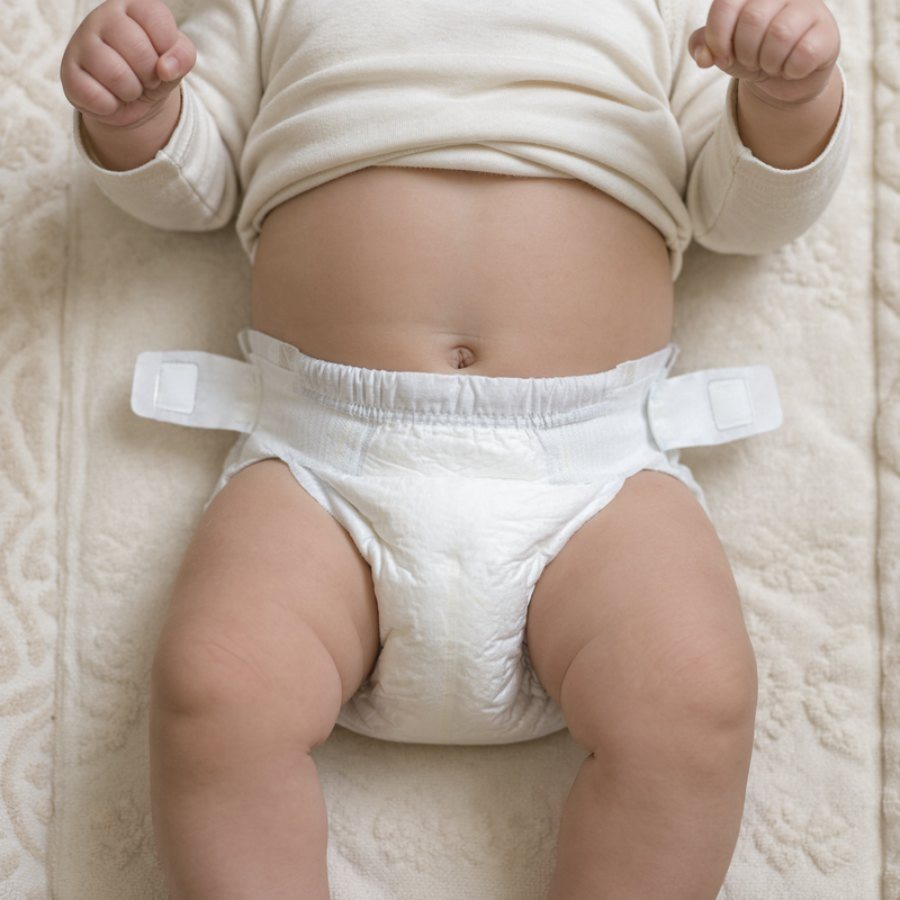
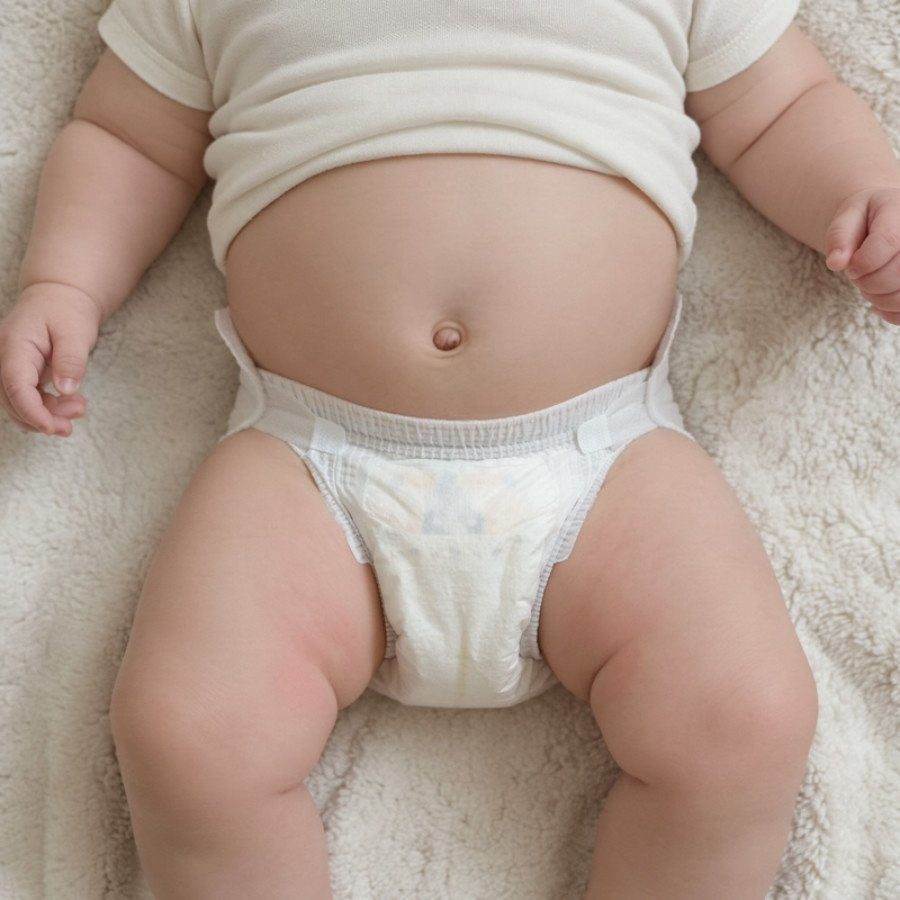
Preview: Everyday care content pass (steps are actions), first step leads the card, wriggler photo tiles, new too-small diaper photo
Claude-Session: https://claude.ai/code/session_01SSLJSJHqsTStWkqtBqtxJf

diff --git a/preview-everyday-care/js/care-v2.js b/preview-everyday-care/js/care-v2.js
@@ -482,13 +482,13 @@ const sunAges = () => typeof hubAgeTiles === 'function' ? hubAgeTiles({ title: '
       W: 'The stump dries up and falls off on its own, usually in 1–3 weeks.', tilesT: 'Keep it dry', tiles: () => [['diaper', 'Fold the diaper down', 'So the stump stays in the air'], ['drop', 'Clean with plain water', 'Only if dirty, then pat dry'], ['heart', 'Let it fall off', 'Even if it’s hanging on']], D: '',
       extra: () => hubEmbed('qFPA-4A_8wY', 'Caring for the umbilical cord', 'Nemours KidsHealth') + lookLink('cord', 'Smell, crust or a little blood?', 'What’s normal, and when to call') },
     sponge: { k: 'bath', title: 'Sponge baths for now', vis: () => hubEmbed('uYQ_KNlcQwE', 'How to give your newborn a sponge bath', 'Nemours KidsHealth'),
-      W: () => '2–3 sponge baths a week until the cord falls off' + (anatomy() !== 'girl' ? ' (and a circumcision heals)' : '') + ', so the cord stays dry.', tilesT: 'Step by step', tilesN: true, tiles: () => [['home', 'Warm the room', 'Not right after a feed'], ['drop', 'Face first', 'Plain water'], ['towel', 'Then the body', 'One part at a time, the rest wrapped'], ['diaper', 'Diaper area last', 'Pat dry, into every crease']], D: '',
+      W: () => '2–3 sponge baths a week until the cord falls off' + (anatomy() !== 'girl' ? ' (and a circumcision heals)' : '') + ', so the cord stays dry.', tilesT: 'Step by step', tilesN: true, tiles: () => [['home', 'Warm the room', 'And lay out a towel and washcloth'], ['drop', 'Wipe {p} face', 'With a damp washcloth, no soap'], ['towel', 'Wash one part at a time', 'Keep the rest wrapped'], ['diaper', 'Wash the diaper area last', 'Then pat dry, into every crease']], D: '',
       Y: 'More baths can dry {p} skin. In between, wipe {p} face, neck and diaper area.', Yl: 'Why only 2–3 a week' },
     newskin: { k: 'skin', title: 'Newborn skin', vis: () => looks('What it can look like', ['Peeling or flaky skin in the first 1–2 weeks', 'Tiny white bumps on the nose and chin', 'Red blotches with a white or yellow center, gone in 1–2 weeks', 'Pink marks on the eyelids or neck, and blue-gray patches on the back or bottom: birthmarks, not bruises', 'From about 2 weeks: baby acne on the cheeks, and flaky cradle cap on the scalp']),
       W: 'Newborn skin does a lot of surprising things in the first weeks. Almost all of it is normal.', D: 'Nothing to treat. Plain water, and no lotions or creams on bumps.',
       extra: () => urgent('Clusters of tiny blisters in the first 2 weeks. Call your pediatrician right away.') },
     nailsnose: { k: 'nails', title: 'Trim nails once a week',
-      W: 'They grow fast and are sharp enough to scratch {p} face.', tilesT: 'Step by step', tilesN: true, tiles: () => [['moon', 'While {s} {sleep|sleeps}', 'The easiest time'], ['hand', 'Press the pad back', 'So the clippers only catch nail'], ['nail', 'Clip or file', 'To a smooth, rounded edge']], D: '',
+      W: 'They grow fast and are sharp enough to scratch {p} face.', tilesT: 'Step by step', tilesN: true, tiles: () => [['hand', 'Hold {p} hand steady', 'Easiest while {s’s} asleep'], ['hand', 'Press the fingertip pad back', 'So you only catch nail'], ['nail', 'Clip or file along the curve', 'To a smooth edge']], D: '',
       K: 'A small nick happens to everyone. Press gently with a clean cloth.', Kl: 'If you nick the skin', Y: 'Wipe the outside with a washcloth. No cotton swabs inside.', Yl: 'Ears',
       extra: () => false ? H().tip('Sticky eyes', 'Wipe from the inside corner out, a fresh damp cotton ball for each eye. Most blocked tear ducts open on their own by the first birthday.') + callTip('A red or swollen eyelid, a red lump at the inner corner of the eye, or yellow-green discharge with redness.') : '' },
     fewer: { i: 'diaper', k: 'diapers', title: 'Fewer poops can be normal', W: () => fewerLine(), D: 'Change {o} when wet or dirty, and let the skin air out before a fresh diaper.',
@@ -981,7 +981,7 @@ const sunAges = () => typeof hubAgeTiles === 'function' ? hubAgeTiles({ title: '
       calls: { ped: 'a diaper rash lasts more than 2–3 days, or has blisters, pus or bright red folds.' } },
     'p:tub': { type: 'howto', k: 'bath', title: 'Tub baths can start',
       why: () => 'Once the cord' + (anatomy() !== 'girl' ? ' and any circumcision have' : ' has') + ' healed, about 3 baths a week is plenty.',
-      steps: [['drop', 'Get the water ready', 'About 2 inches, about 100°F'], ['face', 'Face first', 'Plain water, without soap'], ['hand', 'Then the body', 'A hand behind the head'], ['bath', 'Hair last', 'Shampoo 2 or 3 times a week'], ['towel', 'Straight into a towel', 'Pat dry, into every crease']],
+      steps: [['drop', 'Fill 2 inches of warm water', 'About 100°F. Test it with your wrist'], ['face', 'Wipe {p} face', 'Plain water, no soap'], ['hand', 'Wash {p} body', 'A hand behind {p} head'], ['bath', 'Wash {p} hair last', 'A mild shampoo, 2 or 3 baths a week'], ['towel', 'Lift {o} into a towel', 'Pat dry, into the creases']],
       safe: [['hand', 'A hand on {o} the whole bath', 'To step away, wrap {o} in a towel and take {o} with you.'], ['thermo', 'Water heater at 120°F or lower', 'So scalds are much less likely.']],
       video: ['VsUla1M7eHQ', 'Giving a tub bath', 'Nemours KidsHealth'] },
     'rash:acne': { type: 'check', k: 'skin', eyebrow: 'Is this normal?', title: 'Baby acne', verdict: () => RASH_VERDICT.acne, where: 'acne',
@@ -993,32 +993,32 @@ const sunAges = () => typeof hubAgeTiles === 'function' ? hubAgeTiles({ title: '
   /* ----- How-to pages ----- */
   TPL['p:sponge'] = { type: 'howto', k: 'bath', title: 'Sponge baths for now',
     why: 'Two or three a week until the cord falls off, so it stays dry.',
-    steps: [['home', 'Warm the room', 'Not right after a feed'], ['smile', 'Face first', 'Plain water'], ['towel', 'Then the body', 'One part at a time, the rest wrapped'], ['diaper', 'Diaper area last', 'Pat dry, into every crease']],
+    steps: [['home', 'Warm the room', 'And lay out a towel, washcloth and clean diaper'], ['smile', 'Wipe {p} face', 'Damp cloth, no soap'], ['towel', 'Wash one part at a time', 'The rest stays wrapped'], ['diaper', 'Wash the diaper area last', 'Then pat dry']],
     stepsNotes: [['', 'More baths can dry {p} skin', 'In between, wipe {p} face, neck and diaper area'], ['', 'Ears too', 'Just the outside. No cotton swabs inside']],
     safe: [['hand', 'A hand on {o} the whole time', 'Never step away from {o} on a raised surface.']],
     video: ['uYQ_KNlcQwE', 'How to give your newborn a sponge bath', 'Nemours KidsHealth'] };
   TPL['t:bath:0'] = TPL['p:sponge'];
   TPL['t:bath:2'] = { type: 'howto', k: 'bath', title: 'A warm bath can be part of bedtime',
     why: 'A warm bath helps many babies wind down, and the same order every night helps most.',
-    steps: [['bath', 'Bath', 'About 100°F: test with your wrist'], ['bottle', 'Feed', 'Calm and dim'], ['book', 'Book', 'The same one is fine'], ['moon', 'Bed', 'On {p} back, in {p} own sleep space']],
-    stepsNotes: [['', 'About 3 baths a week', 'More can dry {p} skin. Use a mild shampoo on {p} hair in 2 or 3 of them'], ['', 'The big tub comes once {s} {sit|sits} steadily', 'Often around 6–8 months. Until then, the baby tub']],
+    steps: [['bath', 'Give {o} a warm bath', 'About 100°F. Test it with your wrist'], ['bottle', 'Feed {o}', 'With the lights low'], ['book', 'Read a short book', 'The same one every night is fine'], ['moon', 'Lay {o} down on {p} back', 'In {p} own sleep space']],
+    stepsNotes: [['', 'About 3 baths a week', 'More can dry {p} skin. Use a mild shampoo on {p} hair in 2 or 3 of them']],
     safe: [['hand', 'A hand on {o} the whole bath', 'Babies can slip under in seconds. To step away, take {o} with you.']] };
   TPL['t:bath:3'] = { type: 'howto', k: 'bath', title: 'Move to the big tub',
     why: 'Once {s} {sit|sits} steadily on {p} own, the big tub is fine.',
-    steps: [['mat', 'A non-slip bath mat', 'In the tub'], ['drop', 'Waist-deep at most', 'When {s} {sit|sits}'], ['tub', 'Pulls up?', 'Gently sit {o} back down']],
+    steps: [['mat', 'Lay a non-slip mat in the tub', 'Before you fill it'], ['drop', 'Fill it no higher than {p} waist', 'When {s} {sit|sits}'], ['tub', 'Sit {o} back down if {s} {stand|stands}', 'Gently, every time']],
     safe: [['hand', 'A hand on {o} the whole bath', 'Babies can slip under in seconds. To step away, take {o} with you.'], ['tub', 'Skip bath seats', 'They can tip over, and babies can slip out.']] };
   const diaperRash = [['diaper', 'Diaper rash? Thick zinc cream', 'At every change, and let the skin air out.'], ['diaper', 'Call if a rash isn’t better in 2–3 days', 'Or if it has blisters, pus or bright red folds.']];
   TPL['h:diapers:0'] = { type: 'howto', k: 'diapers', title: 'Change a diaper',
     why: 'About 8–12 a day in the first weeks. Open the fresh diaper before you start.',
-    steps: [['hand', 'A hand on {o}', 'On a flat surface'], ['drop', 'Wipe front to back', 'Water or unscented wipes'], ['leaf', 'Let it air-dry', 'Then slide a fresh one under {o}'], ['cord', 'Fasten it below the cord stump', 'Snug, but two fingers fit at the waist']],
+    steps: [['hand', 'Keep a hand on {o}', 'On a flat surface, the whole change'], ['drop', 'Wipe front to back', 'Water or unscented wipes'], ['leaf', 'Let the skin air-dry', 'Then slide in a fresh one'], ['cord', 'Fasten it below the stump', 'Two fingers’ room at the waist']],
     tipsTitle: 'Good to know', tips: diaperRash };
   TPL['h:diapers:1'] = { type: 'howto', k: 'diapers', title: 'Change a diaper',
     why: 'Change {o} when wet or dirty, about 6 or more a day.',
-    steps: [['hand', 'A hand on {o}', 'On a flat surface'], ['drop', 'Wipe front to back', 'Water or unscented wipes'], ['leaf', 'Let it air-dry', 'Then slide a fresh one under {o}'], ['diaper', 'Fasten it snug', 'Two fingers at the waist']],
+    steps: [['hand', 'Keep a hand on {o}', 'On a flat surface, the whole change'], ['drop', 'Wipe front to back', 'Water or unscented wipes'], ['leaf', 'Let the skin air-dry', 'Then slide in a fresh one'], ['diaper', 'Fasten it snug', 'Two fingers’ room at the waist']],
     tipsTitle: 'Good to know', tips: [['diaper', 'Leaks mean it’s time to size up', 'So do red marks, or tabs that don’t reach the middle.'], ...diaperRash] };
   TPL['h:diapers:2'] = { type: 'howto', k: 'diapers', title: 'Change a wriggler',
     why: 'Rolling can start any day, so set up before {s} {go|goes} down.',
-    steps: [['diaper', 'Set up first', 'Wipes and diaper in reach'], ['hand', 'A hand on {o}', 'Never step away'], ['toy', 'Something to hold', 'Or sing the same song each time'], ['mat', 'Too wriggly?', 'A mat on the floor']],
+    steps: [['diaper', 'Set out wipes and a diaper', 'Before you lay {o} down'], ['hand', 'Keep a hand on {o}', 'Never step away, even for a second'], ['toy', 'Hand {o} a toy to hold', 'Or sing the same song'], ['mat', 'Use a mat on the floor', 'When {s’s} too wriggly']],
     tipsTitle: 'Good to know', tips: diaperRash };
   const skinCare = { type: 'expect', k: 'skin', title: '{P} skin needs less care, not more',
     why: 'Washing too often, or too many products, can dry it out.',
@@ -1028,13 +1028,15 @@ const sunAges = () => typeof hubAgeTiles === 'function' ? hubAgeTiles({ title: '
   [0, 1, 2, 3].forEach(v => { TPL[`h:skin:${v}`] = skinCare; });
   const gums = { type: 'howto', k: 'teeth', title: 'Wipe {p} gums morning and night',
     why: 'It makes brushing feel familiar once teeth come in.',
-    steps: [['towel', 'A cloth on your finger', 'Clean and damp'], ['tooth', 'Wipe gently', 'The top and bottom gums'], ['clock', 'No toothpaste yet', 'Until the first tooth comes in']],
+    steps: [['towel', 'Wrap a damp cloth around your finger', 'A clean, soft one'], ['tooth', 'Wipe {p} gums gently', 'Top and bottom, front to back']],
+    stepsNotes: [['', 'No toothpaste yet', 'Start once the first tooth comes in']],
     tipsTitle: 'Good to know', tips: [['smile', 'Tiny white gum bumps are normal', 'They go away on their own.'], ['tooth', 'The first tooth usually comes around 6 months', 'Keep wiping the gums until then.']] };
   [0, 1, 2, 3].forEach(v => { TPL[`h:gums:${v}`] = gums; });
   TPL['p:brush'] = { type: 'howto', k: 'teeth', title: 'Brushing starts with the first tooth',
     why: 'No tooth yet is normal. Some babies get one close to their first birthday.',
     pictureTitle: 'How much toothpaste', picture: () => paste(),
-    steps: [['tooth', 'A soft baby toothbrush', 'With a rice-grain smear of fluoride toothpaste'], ['moon', 'Twice a day', 'Once right before bed'], ['drop', 'Skip rinsing', 'A little swallowed is fine']],
+    steps: [['tooth', 'Add a grain of toothpaste', 'Fluoride, on a soft brush'], ['hand', 'Brush in small circles', 'Each tooth and the gumline'], ['drop', 'Skip the rinse', 'Swallowing a little is fine']],
+    stepsNotes: [['', 'Twice a day', 'Once right before bed']],
     extra: () => toothBtn(true),
     tipsTitle: 'Good to know', tips: [['bottle', 'No bottle in bed once teeth come', 'Milk on teeth overnight causes cavities.'], ['tooth', 'See a dentist by the first birthday', 'Or sooner, once the first tooth comes in.']] };
   TPL['p:feet'] = { type: 'howto', k: 'clothes', eyebrow: 'Feet and shoes · usually around the first birthday', title: 'Bare feet first, soft shoes later',
@@ -1051,15 +1053,18 @@ const sunAges = () => typeof hubAgeTiles === 'function' ? hubAgeTiles({ title: '
   const six = { type: 'howto', k: 'sun', title: () => careAge() >= 7 ? 'Shade first, then sunscreen on bare skin' : 'Start sunscreen once {s’s} 6 months',
     why: 'Shade and a hat still come first. Sunscreen covers the skin they don’t.',
     pictureTitle: 'Sun protection by age', picture: () => sunAges(),
-    steps: [['sun', 'Put it on early', '15–30 minutes before going out'], ['hand', 'Cover every bit of bare skin', 'Ears, feet and the back of the neck']],
+    steps: [['sun', 'Put it on 15–30 minutes early', 'Before you head out'], ['hand', 'Cover every bit of bare skin', 'Ears, feet and the back of the neck'], ['clock', 'Put more on every 2 hours', 'And after water or sweating']],
     stepsNotes: [['', 'Which sunscreen?', 'Broad-spectrum, SPF 30 or more. Mineral is gentlest; skip sprays']],
     safe: sunSafe(false) };
   TPL['t:sun:0'] = shade; TPL['t:sun:1'] = shade; TPL['t:sun:3'] = six; TPL['t:sun:2'] = () => careAge() < 6 ? shade : six;
   const nails = { type: 'howto', k: 'nails', title: 'Trim nails once a week',
-    why: 'They grow fast, and are sharp enough to scratch {p} face.',
-    steps: [['moon', 'While {s} {sleep|sleeps}', 'The easiest time'], ['hand', 'Press the pad back', 'So the clippers only catch nail'], ['nail', 'Clip or file', 'To a smooth, rounded edge']],
+    why: 'They grow fast, and are sharp enough to scratch {p} face. It’s easiest while {s’s} asleep.',
+    steps: [['hand', 'Hold {p} hand steady', 'Fingers spread in yours'], ['hand', 'Press the pad back', 'Away from the nail'], ['nail', 'Clip along the curve', 'Then file sharp corners']],
     tipsTitle: 'Good to know', tips: [['heart', 'A small nick happens to everyone', 'Press gently with a clean cloth.']] };
-  [0, 1, 2, 3].forEach(v => { TPL[`t:nails:${v}`] = nails; });
+  const nailsNew = { ...nails, title: 'File {p} nails once or twice a week',
+    why: 'Newborn nails are soft but sharp. A file is gentlest in the first weeks, and easiest while {s’s} asleep.',
+    steps: [['hand', 'Hold {p} hand steady', 'Fingers spread in yours'], ['hand', 'Press the pad back', 'Away from the nail'], ['nail', 'File along the curve', 'Until it feels smooth']] };
+  TPL['t:nails:0'] = nailsNew; [1, 2, 3].forEach(v => { TPL[`t:nails:${v}`] = nails; });
 
   /* ----- What to expect pages ----- */
   TPL.cord = { type: 'expect', k: 'cord', title: 'Keep the cord stump clean and dry',
@@ -1078,7 +1083,7 @@ const sunAges = () => typeof hubAgeTiles === 'function' ? hubAgeTiles({ title: '
   // One idea per page: from 6 months, the diaper page is about changing a wriggler. Solids poop lives on the poop page.
   TPL['h:diapers:3'] = { type: 'howto', k: 'diapers', title: 'Change a wriggler',
     why: 'Rolling, crawling and pulling up make changes a two-handed job.',
-    steps: [['diaper', 'Set up first', 'Wipes and diaper in reach'], ['hand', 'A hand on {o}', 'Never step away'], ['toy', 'Something to hold', 'Or sing the same song each time'], ['stand', 'Pulling up?', 'Try a standing change']],
+    steps: [['diaper', 'Set out wipes and a diaper', 'Before you lay {o} down'], ['hand', 'Keep a hand on {o}', 'Never step away, even for a second'], ['toy', 'Hand {o} a toy to hold', 'Or sing the same song'], ['stand', 'Change {o} standing up', 'Once {s} {pull|pulls} up']],
     tipsTitle: 'Good to know', tips: diaperRash };
   TPL['t:diapers:3'] = TPL['h:diapers:3'];
   TPL['p:teething'] = { type: 'expect', k: 'teeth', title: 'Teething makes gums sore, not feverish',
@@ -1228,7 +1233,7 @@ const sunAges = () => typeof hubAgeTiles === 'function' ? hubAgeTiles({ title: '
         'h:skin:1': 'Plain water, and cream for dry patches', 'h:skin:2': 'Drool rash and dry patches', 'p:teething': 'What helps, and what to skip',
         't:bath:2': 'Often part of bedtime', 't:bath:3': 'Once {s} {sit|sits} steadily', 'p:feet': 'Soft shoes once walking outside', 'h:gums:1': 'A soft cloth on your finger', 't:sun:1': 'Shade and clothing first', 't:sun:2': 'Shade first, sunscreen from 6 months', 't:sun:3': 'Sunscreen, again every 2 hours', 't:clothes:0': 'One layer more than you',
         't:clothes:0': 'One layer more than you', 'p:brush': 'A rice-grain smear, twice a day' };
-      const nail = r => /^t:nails/.test(r) ? 'While {s} {sleep|sleeps}, with a file or clippers' : null;
+      const nail = r => /^t:nails/.test(r) ? 'A file at first, then clippers' : null;
       // What matters most at each stage, in order (Nov 13: everything important shows on the page; "All how-tos" only adds the rest).
       const ORDER = [['diapers', 'cord', 'nails', 'clothes'], ['diapers', 'skin', 'nails', 'sun'], ['bath', 'skin', 'sun', 'nails'], ['bath', 'diapers', 'sun', ...(!live() || careAge() >= 9 || now < 3 ? ['clothes'] : ['nails'])]][v];   // shoes only once walking is near
       const tiled = new Set(SEE.map(x => x[2])), byKey = k => HOWTO[v].find(x => x[0] === k);

diff --git a/preview-everyday-care/js/care-photos.js b/preview-everyday-care/js/care-photos.js
@@ -9,7 +9,7 @@
 (function () {
   const F = s => (window.__hub ? window.__hub.F(s) : s);
   const CAT = 'Daily rhythm';
-  const src = n => `assets/care/${n}.jpg?v=1122b`;
+  const src = n => `assets/care/${n}.jpg?v=1122e`;
   const img = (n, alt) => `<img src="${src(n)}" alt="${F(alt).replace(/"/g, '&quot;')}" loading="lazy">`;
   const pin = ([label, x, y, side]) => `<span class="ph-pin ph-pin-${side}" style="left:${x}%;top:${y}%"><i></i><span>${F(label)}</span></span>`;
   const photo = (n, alt, pins, cls = '') => `<figure class="ph-photo ph-hero care-ph ${cls}">${img(n, alt)}${(pins || []).map(pin).join('')}</figure>`;
@@ -59,7 +59,7 @@
     nails: ['File, then clippers', [['First weeks', 'hand', 'A soft file, maybe twice a week. It can’t nick the skin.'], ['Once you’re ready', 'hand', 'Baby clippers, about once a week. Either is fine at any age.']]]
   };
   const STEP_ON = { 't:bath:1': ['bath', 0], 't:bath:2': ['bath', 1], 't:bath:3': ['bath', 2], 't:nails:0': ['nails', 0], 't:nails:1': ['nails', 1], 't:nails:2': ['nails', 1], 't:nails:3': ['nails', 1] };
-  const NOHERO = new Set(['p:sponge', 'p:tub']); // their step photos already show it
+  const NOHERO = new Set(['p:sponge', 'p:tub', 'h:diapers:2', 'h:diapers:3', 't:diapers:3']); // their step photos already show it
   const gearPath = (k, on) => { const [title, items] = STEPS[k], c = (window.YEAR_PALETTES || {})['Daily rhythm'] || { ink: '#2a6078', bg: '#cfe9f4', pale: '#ecf6fa' };
     return `<figure class="hub-figure hub-daymarks oa-timeline care-timeline" style="--ink:${c.ink};--bg:${c.bg};--pale:${c.pale}"><b class="hub-fig-title">${F(title)}</b><ol class="hub-daymarks-list">${items.map(([when, icon, text], i) => `<li class="${i === on ? 'is-on' : ''}"><i>${window.hubArt ? hubArt(icon, 'Daily rhythm') : ''}</i><time>${F(when)}</time><span>${F(text)}</span></li>`).join('')}</ol></figure>`; };
   function addCue(main, r) {
@@ -89,6 +89,7 @@
   const SEQ = { 'p:sponge': [null, 'spface', 'spbody', 'spdry'],
     'p:tub': [null, 'bathface', 'tubbath', null, 'hero-1'],
     'p:brush': ['brushrice', 'brushpos', 'teeth2'],
+    'h:diapers:2': ['dsetup', null, 'dtoy', 'wriggle'], 'h:diapers:3': ['dsetup', null, 'dtoy', 'dstand'], 't:diapers:3': ['dsetup', null, 'dtoy', 'dstand'],
     'h:diapers:0': [null, 'dwipe', 'dslide', 'cord'], 'h:diapers:1': [null, 'dwipe', 'dslide', 'diaper'],
     't:nails:0': ['nsleep', 'npress', 'nailfile'], 't:nails:1': ['nsleep', 'npress', 'nails'], 't:nails:2': ['nsleep', 'npress', 'nails'], 't:nails:3': ['nsleep', 'npress', 'nails'] };
   function photoSteps(main, r) {
@@ -96,19 +97,21 @@
     const h = [...main.querySelectorAll('h2.hub-h2')].find(x => x.textContent.trim() === 'Steps'); const fig = h && h.nextElementSibling;
     if (!fig) return false; if (fig.classList.contains('ph-tiles')) return true;
     const steps = [...fig.querySelectorAll('.hub-iconstep')]; if (steps.length !== pics.length) return false;
-    let notes = fig.querySelector('.tpl-notes'); const moved = [];
+    let notes = fig.querySelector('.tpl-notes'); const moved = []; let lead = '';
     steps.forEach((st, i) => { const art = st.querySelector('.hub-iconstep-art');
       if (!pics[i]) { const b = st.querySelector('b').cloneNode(true); b.querySelectorAll('em').forEach(e => e.remove()); const sm = st.querySelector('small');
+        if (i === 0) { lead = `<b>${b.innerHTML}.</b> ${sm ? sm.innerHTML : ''}${sm && /[.?!]$/.test(sm.textContent.trim()) ? '' : '.'}`; st.remove(); return; }
         moved.push(`<li><b style="color:#302d3c">${b.innerHTML}.</b> ${sm ? sm.innerHTML : ''}${sm && /[.?!]$/.test(sm.textContent.trim()) ? '' : '.'}</li>`); st.remove(); return; }
       if (art) art.outerHTML = `<span class="ph-tile">${img(pics[i], st.querySelector('b').textContent)}</span>`; });
     fig.querySelectorAll('.hub-iconstep b em').forEach((e, i) => { e.textContent = i + 1; });
     const n = pics.filter(Boolean).length; fig.className = fig.className.replace(/\bis-\d\b/, 'is-' + n) + ' ph-tiles care-tiles';
+    if (lead) fig.insertAdjacentHTML('afterbegin', `<p class="care-tiles-lead"><span>First</span>${lead}</p>`);
     if (moved.length) { if (!notes) { notes = document.createElement('ul'); notes.className = 'tpl-notes'; fig.appendChild(notes); } notes.insertAdjacentHTML('afterbegin', moved.join('')); }
     return true;
   }
 
   const PAIRS = {
-    diapers: ['Does it still fit?', [['dfit', 'Fits well', 'Two fingers at the waist, no marks.', 'ok'], ['dtight', 'Time to size up', 'Tabs don’t reach the middle, red marks or leaks.', 'no']]],
+    diapers: ['Does it still fit?', [['dfit', 'Fits well', 'It reaches the belly button, with room for two fingers.', 'ok'], ['dtight', 'Time to size up', 'It sits low and tight, leaves red marks, or leaks.', 'no']]],
     clothes: ['Dress for the room', [['coolroom', 'Cool room', 'Long sleeves and feet, then a sleep sack.', 'ok'], ['warmroom', 'Warm room', 'One light layer is enough.', 'ok']]]
   };
   function pairBlock(k) { const [t, items] = PAIRS[k];
@@ -195,7 +198,7 @@
 
   const NEWS = [
     [['p:sponge', 'Sponge baths for now', 'Until the cord falls off, usually 1–3 weeks.'], ['h:diapers:0', 'Change a diaper', 'Front to back, then let it air-dry.', 'diaper'],
-      ['cord', 'Care for the cord', 'Keep it clean, dry and in the air.', 'cord'], ['t:nails:0', 'Trim tiny nails', 'While {s} {sleep|sleeps}, with a file or clippers.', 'nails'],
+      ['cord', 'Care for the cord', 'Keep it clean, dry and in the air.', 'cord'], ['t:nails:0', 'Trim tiny nails', 'A file at first, then clippers.', 'nails'],
       ['t:clothes:0', 'Dress {o} in layers', 'One layer more than you.', 'clothes']],
     [['p:tub', 'The first tub bath may be close', 'Once the cord falls off and the belly button heals.'], ['h:skin:1', 'Keep skin comfortable', 'Plain water, and cream for dry patches.', 'cream'],
       ['t:sun:1', 'Keep {o} sun-safe', 'Shade and clothing first, no sunscreen yet.', 'sun']],

diff --git a/preview-everyday-care/index.html b/preview-everyday-care/index.html
@@ -18,7 +18,7 @@
 <link rel="stylesheet" href="css/outings-look.css?v=1113e">
 <link rel="stylesheet" href="css/childcare-look.css?v=1120e"><link rel="stylesheet" href="css/care-card.css">
 <link rel="stylesheet" href="css/care-v2.css?v=1117x">
-<link rel="stylesheet" href="css/care-photos.css?v=1122b">
+<link rel="stylesheet" href="css/care-photos.css?v=1122e">
 <link rel="stylesheet" href="css/year-ahead.css?v=1115c"><link rel="stylesheet" href="css/subpage-color.css"><style>#main .you-avatar.has-photo{overflow:hidden;padding:0}#main .you-avatar.has-photo img{width:100%;height:100%;object-fit:cover;display:block}</style><link rel="stylesheet" href="css/stages-nav.css?v=1121m"><link rel="stylesheet" href="css/home-cards.css"><link rel="stylesheet" href="css/home-glance.css?v=1117g"><link rel="stylesheet" href="css/one-app.css"><link rel="stylesheet" href="css/month-story.css"><link rel="stylesheet" href="css/guides-v2.css?v=1"><link rel="stylesheet" href="css/home-card-clean.css?v=3"><link rel="stylesheet" href="css/dev-photo.css?v=34"></head>
 <body><div id="shell"><header class="top"><button class="brand" onclick="if(profile&&profile.dob)navigate('home')" aria-label="Ahead home">ahead<span class="dot">.</span></button><button id="profileButton" class="profile" hidden onclick="navigate('profile')" aria-label="Baby profile and check-ins">M</button></header><main id="main" class="page"><div class="app-loading" role="status">Getting your guide ready…</div><noscript><style>.app-loading{display:none}</style><p>Ahead needs JavaScript to open your guide. Enable it in your browser, then reload this page.</p></noscript></main><nav id="nav" class="nav" hidden aria-label="Main navigation"><button class="active" onclick="navigate('home')" aria-current="page"><svg viewBox="0 0 24 24" fill="none" stroke="currentColor" stroke-width="1.5" stroke-linecap="round" stroke-linejoin="round" aria-hidden="true"><path d="m3 10 9-7 9 7v10H6V10M9 20v-7h6v7"/></svg>Home</button><button class="" onclick="navigate('categories')" ><svg viewBox="0 0 24 24" fill="none" stroke="currentColor" stroke-width="1.5" stroke-linecap="round" stroke-linejoin="round" aria-hidden="true"><circle cx="12" cy="12" r="9"/><path d="m16 8-3 5-5 3 3-5Z"/></svg>Guides</button><button class="" onclick="navigate('timeline')" ><svg viewBox="0 0 24 24" fill="none" stroke="currentColor" stroke-width="1.5" stroke-linecap="round" stroke-linejoin="round" aria-hidden="true"><circle cx="12" cy="12" r="9"/><path d="M12 6v6l4 3"/></svg>Memories</button></nav></div>
 <script src="js/storage.js"></script>
@@ -56,8 +56,8 @@
 <script src="js/safety-look.js"></script>
 <script src="js/safety-v2.js?v=1118s"></script>
 <script src="js/care-art.js?v=1113g"></script>
-<script src="js/care-v2.js?v=1119zi"></script>
-<script src="js/care-photos.js?v=1122b"></script>
+<script src="js/care-v2.js?v=1122e"></script>
+<script src="js/care-photos.js?v=1122e"></script>
 <script src="js/cat-icons.js"></script>
 <script src="js/year-ahead-art.js"></script><script src="js/year-ahead.js?v=1117q"></script><script src="js/profile-v2.js?v=1113e"></script><script src="js/stages-nav.js?v=1121m"></script><script src="js/feed-mock2.js?v=1121a"></script><script src="js/feed-templates.js?v=1121a"></script><script src="js/home-copy.js?v=1119zj"></script><script src="js/home-cards.js?v=1119zj"></script><script src="js/home-glance.js?v=1118c"></script>
 <script src="js/feed-photos.js?v=1119zj"></script><script src="js/search-index.js?v=1121m"></script><script src="js/cohesion.js?v=1114v"></script><script src="js/they-grammar.js"></script><script src="js/month-story.js"></script><script src="js/boot.js"></script>

diff --git a/preview-everyday-care/css/care-photos.css b/preview-everyday-care/css/care-photos.css
@@ -221,3 +221,7 @@
 #main .care-timeline li.is-on time::after { content: "Now"; display: block; width: max-content; margin-top: 4px; padding: 1px 7px; border-radius: 99px; background: var(--bg); color: var(--ink); font-size: 11px; font-weight: 700 }
 /* Photo steps = Feeding's photo tiles (one row, small, numbered). */
 #main .care-tiles .ph-tile { aspect-ratio: 1 }
+/* A step with no photo of its own that comes first leads the card, before the photos. */
+#main .care-tiles .care-tiles-lead { margin: 0 0 12px; font-size: 14px; line-height: 1.4; color: #4a4650 }
+#main .care-tiles .care-tiles-lead span { display: inline-block; margin-right: 6px; padding: 1px 8px; border-radius: 99px; background: #e3f1f7; color: #2a6078; font-size: 11.5px; font-weight: 700; vertical-align: 1px }
+#main .care-tiles .care-tiles-lead b { color: #302d3c }
